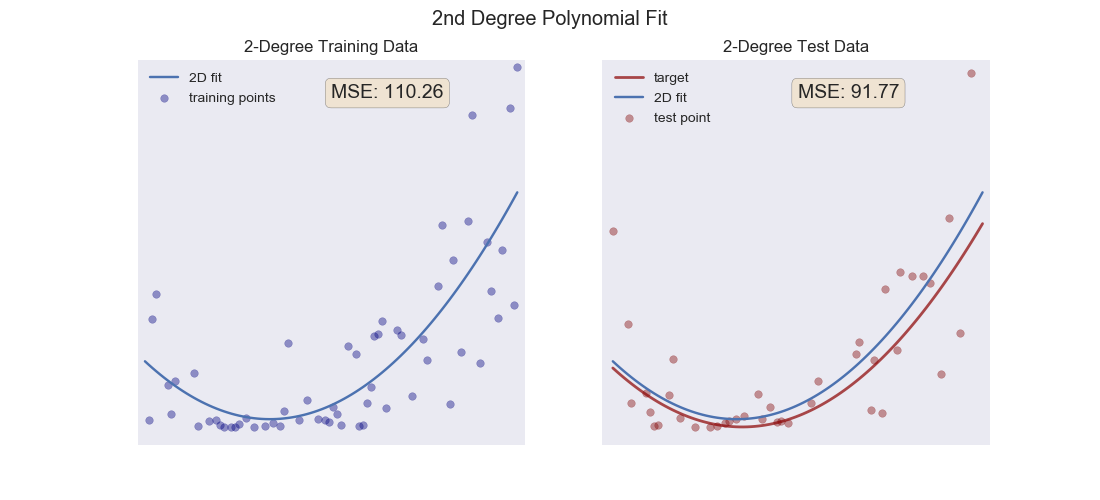
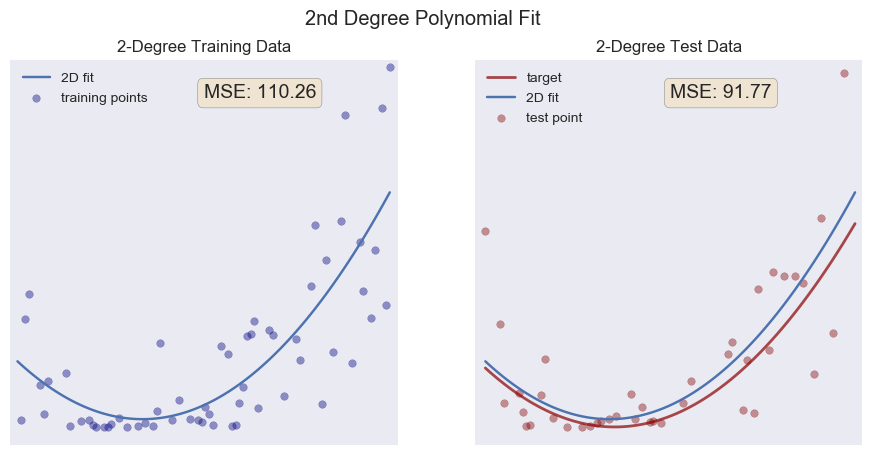
Final changes!
Added and changed graphs for publication.
Commented the code for readability.

diff --git a/fitting.py b/fitting.py
@@ -1,21 +1,25 @@
 import pandas as pd
 import numpy as np
-import sklearn.linear_model
 from sklearn.model_selection import train_test_split
 import matplotlib.pyplot as plt
 import seaborn as sns
-from sklearn.linear_model import Ridge
-from sklearn.preprocessing import PolynomialFeatures
-from sklearn.pipeline import make_pipeline
 from my_stats_package import mean_squarred_error
 sns.set()
 
 
 def f(x):
-    """function to model with a polynomial"""
+    """function to model with a polynomial. Change this function to have anything modeled
+    with polynomials and a quick, MSE analysis done!"""
+    #Other suggested function:
+    #return x * np.sin(x)
     return x**2 - 7*x + 11
 
+
 def poly(x, coef):
+    """Take an x-value and a list of polynomial coeffiecients (such as is returned
+    by np.polyfit). Returns the corresponding value of the polynomial at that x.
+    coef can be any length"""
+
     terms = []
     for i in range(len(coef)):
         terms.append(coef[i] * x ** ((len(coef)- 1 - i)))
@@ -23,6 +27,9 @@ def poly(x, coef):
 
 
 def make_new_data():
+    """Specifically for this script. Creates a new, noisy dataset based on f(x),
+    and saved as data.csv"""
+
     x = np.linspace(0, 10, 100)
     noise = np.random.normal(0, 1.5, size=len(x), )
     x_noisy = np.add(x, noise)
@@ -41,40 +48,56 @@ def make_new_data():
 
     return
 
-"""
-for count, degree in enumerate([2, 3 , 4, 5, 10]):
-    model = make_pipeline(PolynomialFeatures(degree), Ridge())
-    model.fit(X_train, y_train)
-    y_plot = model.predict(X_plot)
-    plt.plot(x_plot, y_plot, linewidth=2,label="degree %d" % degree, alpha=0.5)
-    test_scores[degree] = model.score(X_test, y_test)
-    train_scores[degree] = model.score(X_train, y_train)
-"""
-
-
+#Read in the data
 data = pd.read_csv('data.csv')
 x_data = data['x']
 y_data = data['y_noisy']
 
+#Setting our test size to be used throughout
 test_size = 0.4
 
+#Split up the data into our training and test sets
 X_train, X_test, y_train, y_test = train_test_split(x_data, y_data, test_size=test_size, random_state=42)
 
-#Create plot to show training data
+#Create plot to show all our data
 plt.figure()
-plt.scatter(X_train, y_train, marker='o', s=30, color='navy', label='trainin points')
-plt.legend(loc='best')
+plt.scatter(x_data, y_data, marker='o', s=30, color='darkred', label='noisy data')
+plt.legend(loc='upper left')
 plt.ylim(-5,75)
 plt.xticks([])
 plt.yticks([])
-plt.savefig('training.png')
+plt.savefig('data.png', bbox_inches='tight')
+plt.close()
 
+#Create plot to show training and test data together
+plt.figure(figsize=(10,5))
+plt.subplot(1,2,1)
+plt.scatter(X_train, y_train, marker='o', s=30, color='navy', label='training points')
+plt.legend(loc='upper left')
+plt.ylim(-5,75)
+plt.xticks([])
+plt.yticks([])
 
+plt.subplot(1,2,2)
+plt.scatter(X_test, y_test, marker='o', s=30, color='darkred', label='test points')
+plt.legend(loc='upper left')
+plt.ylim(-5,75)
+plt.xticks([])
+plt.yticks([])
+plt.tight_layout()
+plt.savefig('train_test.png', bbox_inches='tight')
+plt.close()
+
+#Getting our polynomial coeffients and residuals for each fit with degree 1, 2, and 10
+#I ended up not using the residuals, but leaving here for future analysis.
+#Notice that coefs is a list of lists, with each entry being the list of coeffients
+#for our 1, 2, and 10 degree functions, respectively.
 coefs = [[] for i in range(3)]
-res = [[] for i in range(3)]
+res = [[] for i in range(3)].
 for count, degree in enumerate([1, 2, 10]):
     coefs[count], res[count], _, _, _ = np.polyfit(X_train, y_train, degree, full=True)
 
+#Finding the points of the fits.
 y_1d_fit_train = [poly(i, coefs[0]) for i in X_train]
 y_2d_fit_train = [poly(i, coefs[1]) for i in X_train]
 y_10d_fit_train = [poly(i, coefs[2]) for i in X_train]
@@ -83,6 +106,7 @@ y_1d_fit_test = [poly(i, coefs[0]) for i in X_test]
 y_2d_fit_test = [poly(i, coefs[1]) for i in X_test]
 y_10d_fit_test = [poly(i, coefs[2]) for i in X_test]
 
+#Finding the MSE for each fit.
 mse_1d_train = mean_squarred_error(y_train, y_1d_fit_train)
 mse_2d_train = mean_squarred_error(y_train, y_2d_fit_train)
 mse_10d_train = mean_squarred_error(y_train, y_10d_fit_train)
@@ -91,6 +115,7 @@ mse_1d_test = mean_squarred_error(y_test, y_1d_fit_test)
 mse_2d_test = mean_squarred_error(y_test, y_2d_fit_test)
 mse_10d_test = mean_squarred_error(y_test, y_10d_fit_test)
 
+#Quick report to check the MSE for any oddities
 report = pd.DataFrame(columns = ['Train', 'Test'], index=['1d', '2d', '10d'])
 report.loc['1d'] = [mse_1d_train, mse_1d_test]
 report.loc['2d'] = [mse_2d_train, mse_2d_test]
@@ -118,7 +143,6 @@ plt.title('1-Degree Training Data')
 plt.text(5, 70, 'MSE: ' + str(np.around(mse_1d_train,decimals=2)), fontsize=14,
     verticalalignment='top', bbox=props)
 
-
 plt.subplot(1,2,2)
 plt.plot(x_plot, f(x_plot), color='darkred', linewidth=2, label="target", alpha=0.7)
 plt.scatter(X_test, y_test, color='maroon', s=30, marker='o', label='test point', alpha=0.4)
@@ -132,7 +156,7 @@ plt.title('1-Degree Test Data')
 plt.text(5, 70, 'MSE: ' + str(np.around(mse_1d_test,decimals=2)), fontsize=14,
     verticalalignment='top', bbox=props)
 
-plt.savefig('1d.png')
+plt.savefig('1d.png', bbox_inches='tight')
 
 #Make 2D Plots
 plt.figure(figsize = (11,5))
@@ -162,7 +186,7 @@ plt.title('2-Degree Test Data')
 plt.text(5, 70, 'MSE: ' + str(np.around(mse_2d_test,decimals=2)), fontsize=14,
     verticalalignment='top', bbox=props)
 
-plt.savefig('2d.png')
+plt.savefig('2d.png', bbox_inches='tight')
 
 #Make 10D Plots
 plt.figure(figsize = (11,5))
@@ -192,20 +216,19 @@ plt.title('10-Degree Test Data')
 plt.text(5, 70, 'MSE: ' + str(np.around(mse_10d_test,decimals=2)), fontsize=14,
     verticalalignment='top', bbox=props)
 
-plt.savefig('10d.png')
+plt.savefig('10d.png', bbox_inches='tight')
 plt.close('all')
 
 
-#Bootstraping: I need to first bootstrap the coefs then graph them. It would be cool
-#to capture the MSE for each bootstrap as well, then plot the distribution
+#Bootstraping: Now running the same fitting anlysis repeated to demonstrate bootstrapping
+#and to eventually show bias-variance tradeoff.
 
 #Number of bootstraps
 runs = 100
 
-plt.figure(figsize = (11,5))
+#Setting up the plot
+plt.figure(figsize=(18,6))
 plt.subplot(1,3,1)
-
-
 plt.ylim(-5,75)
 plt.xticks([])
 plt.yticks([])
@@ -222,6 +245,7 @@ for i in range(runs):
     bs_y_1d_fit_test = [poly(j, one_d_coefs[i]) for j in bs_X_test]
     one_d_mses.append(mean_squarred_error(bs_y_test, bs_y_1d_fit_test))
 
+    #Plot mean of the runs
     if i == runs - 1:
         mean_one_d_coefs = []
         for k in range(2):
@@ -231,15 +255,16 @@ for i in range(runs):
     else:
         pass
 
+#2D plot
 plt.subplot(1,3,2)
 plt.ylim(-5,75)
 plt.xticks([])
 plt.yticks([])
-
 two_d_coefs = []
 two_d_mses = []
+
 for i in range(runs):
-    ##Make bootstrap rep and plot the resulting polynomial - 2D
+    #Make bootstrap rep and plot the resulting polynomial - 2D
     bs_X_train, bs_X_test, bs_y_train, bs_y_test = train_test_split(x_data, y_data, test_size=test_size)
     two_d_coefs.append(np.polyfit(bs_X_train, bs_y_train, 2))
     plt.plot(x_plot, poly(x_plot, two_d_coefs[i]), color='b', alpha=0.03)
@@ -248,6 +273,7 @@ for i in range(runs):
     bs_y_2d_fit_test = [poly(j, two_d_coefs[i]) for j in bs_X_test]
     two_d_mses.append(mean_squarred_error(bs_y_test, bs_y_2d_fit_test))
 
+    #Plot the mean of the runs
     if i == runs - 1:
         mean_two_d_coefs = []
         for k in np.arange(3):
@@ -258,14 +284,15 @@ for i in range(runs):
     else:
         pass
 
+#10D plot
 plt.subplot(1,3,3)
 plt.ylim(-5,75)
 plt.xticks([])
 plt.yticks([])
-
 ten_d_coefs = []
 ten_d_mses = []
 for i in range(runs):
+    #Make bootstrap rep and plot the resulting polynomial - 10D
     bs_X_train, bs_X_test, bs_y_train, bs_y_test = train_test_split(x_data, y_data, test_size=test_size)
     ten_d_coefs.append(np.polyfit(bs_X_train, bs_y_train, 10))
     plt.plot(x_plot, poly(x_plot, ten_d_coefs[i]), color='blue', alpha=0.03)
@@ -283,10 +310,11 @@ for i in range(runs):
         plt.title('10 Degree Fit')
     else:
         pass
-plt.suptitle('Bootstrapping Fits')
-plt.savefig('bootstrapped.png')
+
+plt.tight_layout()
+plt.savefig('bootstrapped.png', bbox_inches='tight')
 plt.clf()
-plt.close('all')
+plt.close()
 
 # Plot MSE histograms
 
@@ -298,8 +326,8 @@ sns.boxplot(data=mses)
 plt.xlabel('Degree of Polynomial Model')
 plt.ylabel('Mean Squared Error')
 plt.legend(loc='best')
-plt.savefig('boxplots_mse.png')
-plt.close('all')
+plt.savefig('boxplots_mse.png', bbox_inches='tight')
+plt.close()
 
 plt.figure()
 plt.hist(mses['two_d'], label='Degree 2', alpha=0.8, bins=8)
@@ -308,15 +336,14 @@ plt.hist(mses['ten_d'], label='Degreee 10', alpha=0.8, bins=20)
 plt.legend(loc='best')
 plt.xlabel('Mean Squared Error')
 plt.ylabel('Count')
-plt.savefig('mse_hists.png')
-plt.close('all')
+plt.savefig('mse_hists.png', bbox_inches='tight')
+plt.close()
 
 
-#Now attemping to explore bias-variance tradeoff. Need to plot the MSE vs. the
-#power of the Polynomial
+#Bias-variance trade off exploration
 
+#Making x-axis and setting up lists
 powers = np.linspace(0, 10, 11)
-
 plt.figure()
 mses_train_ = []
 mses_test_ = []
@@ -324,9 +351,14 @@ mses_train_means = []
 mses_test_means = []
 
 for i in range(runs):
+    #for each run, split up the data
     var_X_test, var_X_train, var_y_test, var_y_train = train_test_split(x_data, y_data, test_size=test_size)
     mses_train = []
     mses_test = []
+
+    #For every power in powers, make a polynomial fit to the current run's train and test data
+    #Calculate the MSE
+    #Plot the trend
     for p in powers:
         coeffiecients = np.polyfit(var_X_train, var_y_train, p)
         train = [poly(i, coeffiecients) for i in var_X_train]
@@ -340,6 +372,7 @@ for i in range(runs):
     mses_train_.append(mses_train)
     mses_test_.append(mses_test)
 
+    #At the end, plot the mean of the runs
     if i == runs - 1:
         for k in range(len(powers)):
             mses_train_means.append(np.mean([j[k] for j in mses_train_]))
@@ -349,8 +382,11 @@ for i in range(runs):
     else:
         pass
 
+#Final plot attributes
 plt.ylim(0,400)
 plt.ylabel('Mean Squared Error')
-plt.xlabel('Polynomial Degree')
+plt.xlabel('<--High Bias/Low Variance | Polynomial Degree | Low Bias/High Variance -->')
 plt.legend(loc='best')
-plt.savefig('bias_variance.png')
+plt.savefig('bias_variance.png', bbox_inches='tight')
+
+#You're done!
